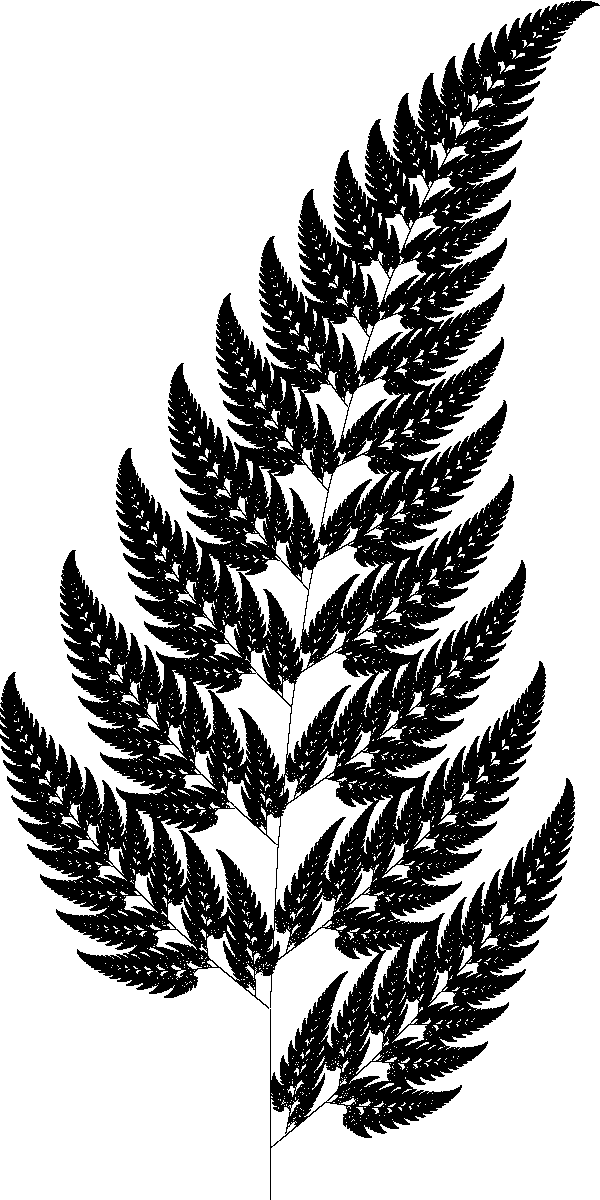
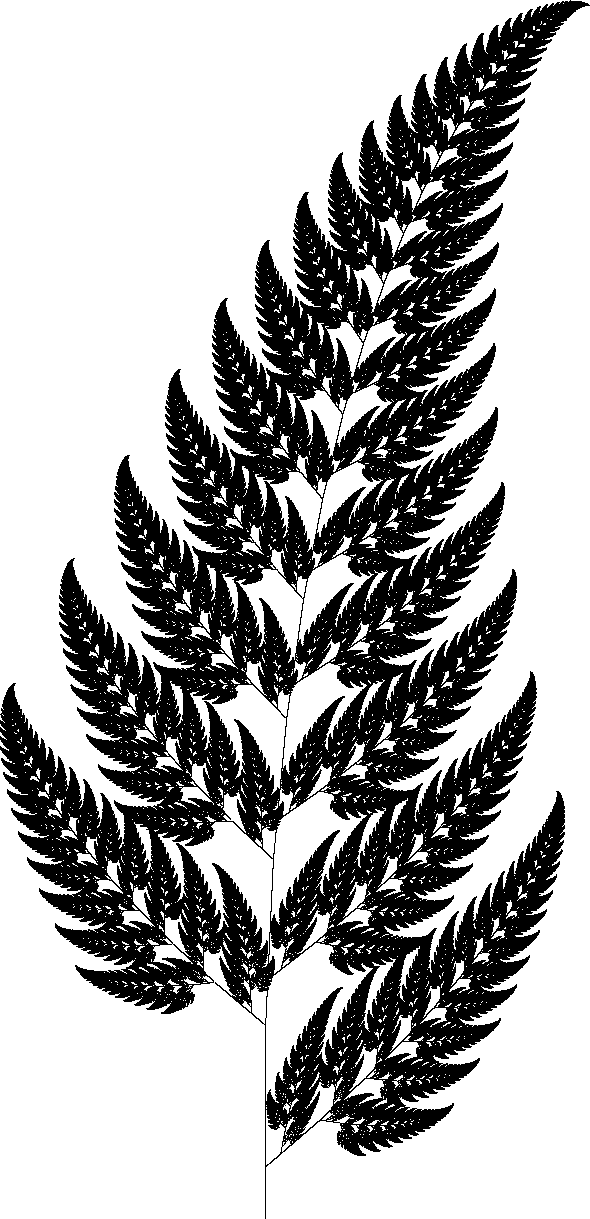
Updated

diff --git a/src/IFS.cpp b/src/IFS.cpp
@@ -27,11 +27,10 @@ void test(Ts... args)
 }
 
 // [[Rcpp::export]]
-NumericMatrix IFS(const List& transformation, const List& translation, const std::vector<int>& probability, const int& iterations, int width, int height)
+List IFS(const List& transformation, const List& translation, const std::vector<int>& probability, const int& iterations, const int pixels)
 {
   std::vector<sp::Matrix<double>>  _transformation;
   std::vector<sp::Matrix<double>>  _translation;
-  NumericMatrix                    result(width, height);
   std::vector<int>                 rules_probability;
   sp::Matrix<double>               point(std::vector<double>({0, 0}));
   std::vector<double>              x(iterations);
@@ -41,6 +40,7 @@ NumericMatrix IFS(const List& transformation, const List& translation, const std
   double max_x = -std::numeric_limits<double>::infinity();
   double min_y =  std::numeric_limits<double>::infinity();
   double max_y = -std::numeric_limits<double>::infinity();
+  int w, h;
 
   for (int i = 0; i < transformation.length(); ++i)
     _transformation.push_back( ToMatrix( transformation(i) ) );
@@ -64,15 +64,25 @@ NumericMatrix IFS(const List& transformation, const List& translation, const std
     if(y[i] > max_y) max_y = y[i];
     if(y[i] < min_y) min_y = y[i];
   }
+
+  double p = sqrt((1.0*pixels)/((max_x - min_x)*(max_y - min_y)));
+
+  w = (max_x - min_x) * p;
+  h = (max_y - min_y) * p;
+
+  NumericMatrix result(w, h);
   
   for(int i = 0; i < iterations; ++i)
   {
-    x[i] = (x[i] - min_x) * (width - 1) / (max_x - min_x);
-    y[i] = (y[i] - min_y) * (height - 1) / (max_y - min_y);
+    x[i] = (x[i] - min_x) * (w - 1)  / (max_x - min_x);
+    y[i] = (y[i] - min_y) * (h - 1) / (max_y - min_y);
 
     if(result(x[i], y[i]) < 100)
       result(x[i], y[i]) += 1;
   }
 
-  return result;
+  return List::create(Named("ImageMatrix") = result,
+                      Named("width")       = w,
+                      Named("height")      = h);
+
 }

diff --git a/src/RcppExports.cpp b/src/RcppExports.cpp
@@ -6,8 +6,8 @@
 using namespace Rcpp;
 
 // IFS
-NumericMatrix IFS(const List& transformation, const List& translation, const std::vector<int>& probability, const int& iterations, int x_res, int y_res);
-RcppExport SEXP _IFSPlot_IFS(SEXP transformationSEXP, SEXP translationSEXP, SEXP probabilitySEXP, SEXP iterationsSEXP, SEXP x_resSEXP, SEXP y_resSEXP) {
+List IFS(const List& transformation, const List& translation, const std::vector<int>& probability, const int& iterations, const int pixels);
+RcppExport SEXP _IFSPlot_IFS(SEXP transformationSEXP, SEXP translationSEXP, SEXP probabilitySEXP, SEXP iterationsSEXP, SEXP pixelsSEXP) {
 BEGIN_RCPP
     Rcpp::RObject rcpp_result_gen;
     Rcpp::RNGScope rcpp_rngScope_gen;
@@ -15,15 +15,14 @@ BEGIN_RCPP
     Rcpp::traits::input_parameter< const List& >::type translation(translationSEXP);
     Rcpp::traits::input_parameter< const std::vector<int>& >::type probability(probabilitySEXP);
     Rcpp::traits::input_parameter< const int& >::type iterations(iterationsSEXP);
-    Rcpp::traits::input_parameter< int >::type x_res(x_resSEXP);
-    Rcpp::traits::input_parameter< int >::type y_res(y_resSEXP);
-    rcpp_result_gen = Rcpp::wrap(IFS(transformation, translation, probability, iterations, x_res, y_res));
+    Rcpp::traits::input_parameter< const int >::type pixels(pixelsSEXP);
+    rcpp_result_gen = Rcpp::wrap(IFS(transformation, translation, probability, iterations, pixels));
     return rcpp_result_gen;
 END_RCPP
 }
 
 static const R_CallMethodDef CallEntries[] = {
-    {"_IFSPlot_IFS", (DL_FUNC) &_IFSPlot_IFS, 6},
+    {"_IFSPlot_IFS", (DL_FUNC) &_IFSPlot_IFS, 5},
     {NULL, NULL, 0}
 };
 

diff --git a/README.md b/README.md
@@ -35,7 +35,7 @@ translations    = list(v1, v2, v3, v4)
 
 iterations = 10**7
 
-result = RunIFS(transformations, translations, probability, iterations, 600, 1200)
+result = RunIFS(transformations, translations, probability, iterations, 600*1200)
 ```
 ### Output
 
@@ -63,7 +63,7 @@ translations    = list(v1, v2, v3, v4)
 
 iterations = 10**7
 
-result = RunIFS(transformations, translations, probability, iterations, 600, 1200, 1)
+result = RunIFS(transformations, translations, probability, iterations, 600*1200, 1)
 ```
 ### Output
 
@@ -90,7 +90,7 @@ translations    = list(v1, v2, v3)
 
 iterations = 10**7
 
-result = RunIFS(transformations, translations, probability, iterations, 600, 600)
+result = RunIFS(transformations, translations, probability, iterations, 600*600)
 
 ```
 ### Output
@@ -118,7 +118,7 @@ for(i in 1:n_rules) {
 
 iterations = 10**7
 
-result = IFSPlot::RunIFS(transformations, translations, probability, iterations, 600, 600)
+result = IFSPlot::RunIFS(transformations, translations, probability, iterations, 600*600)
 
 #> transformations
 #[[1]]
